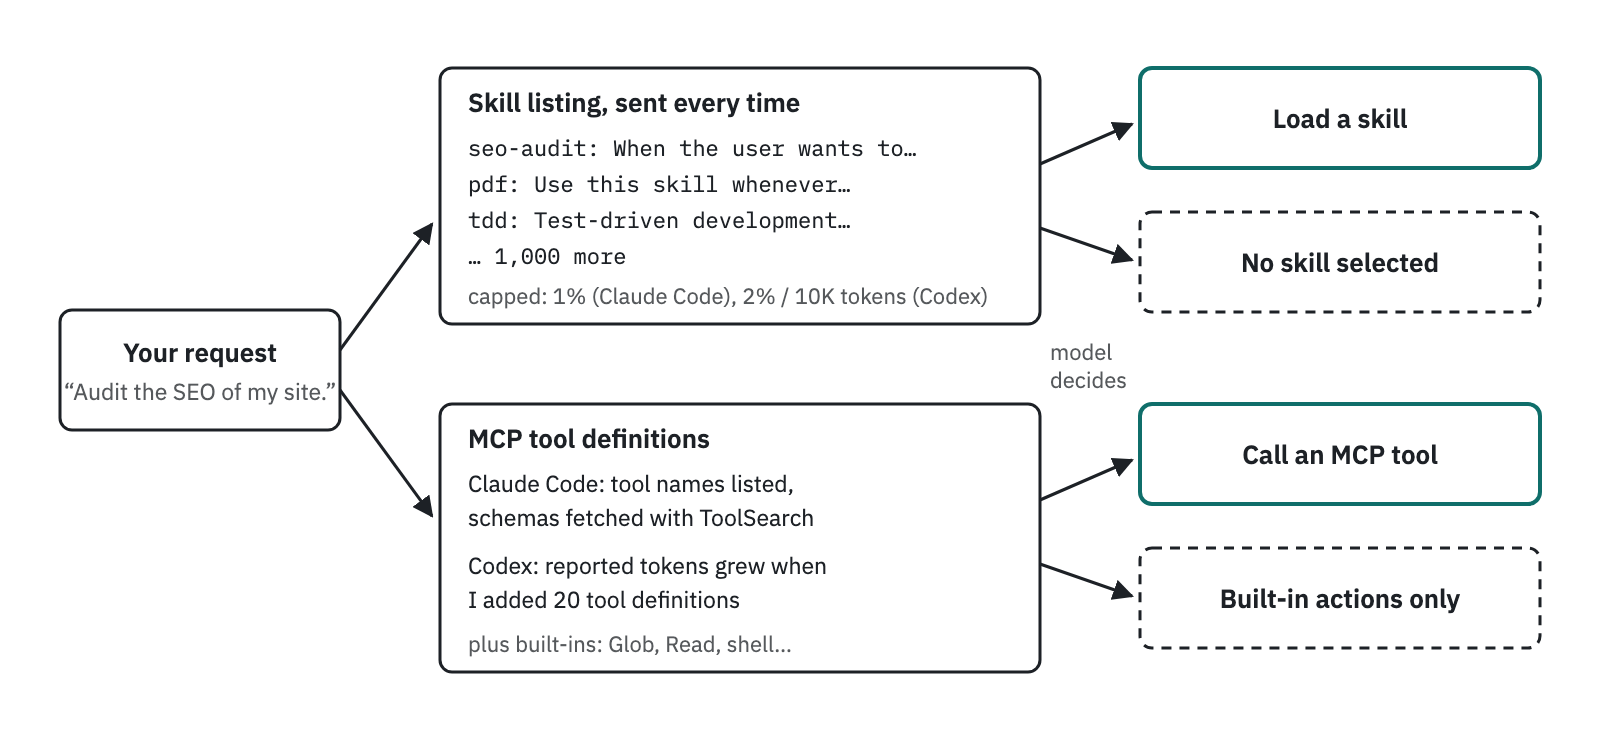
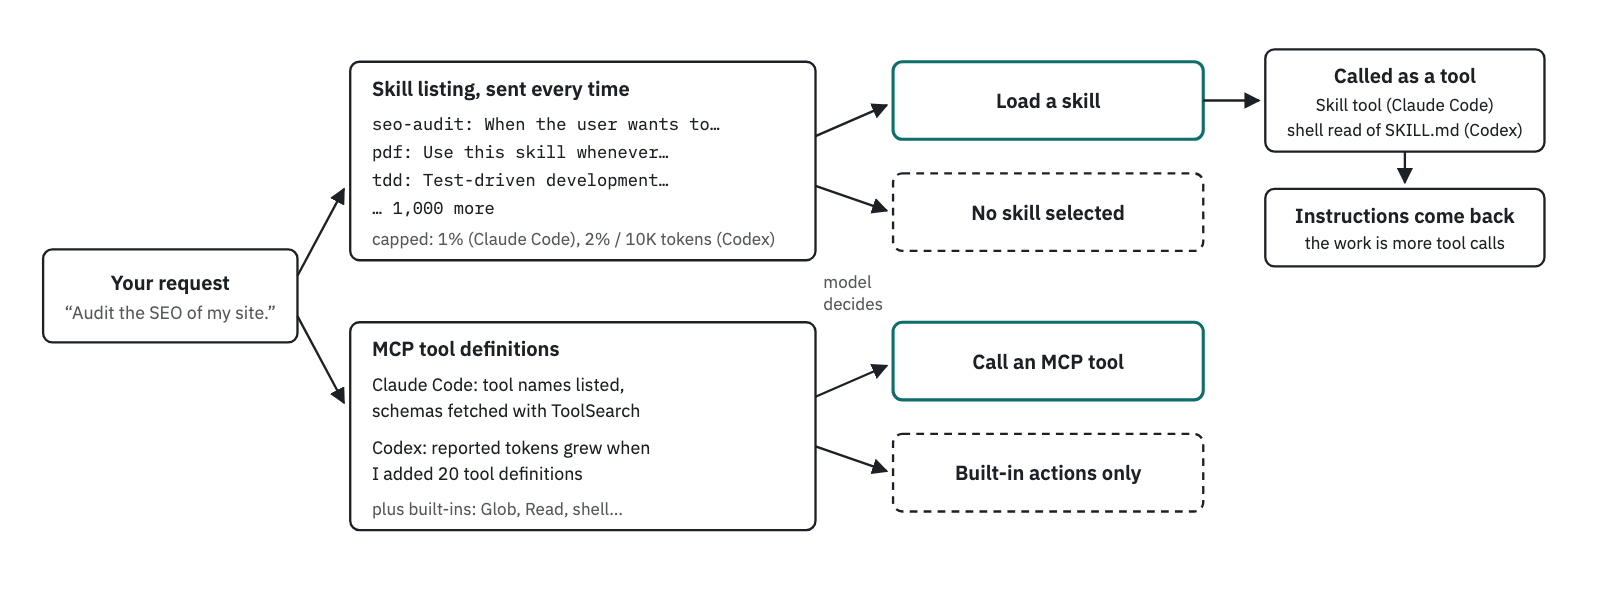
Show that loading a skill is itself a tool call
The pipeline diagram adds the step after "Load a skill": the Skill tool
(Claude Code) or a shell read of SKILL.md (Codex) returns instructions,
and the work happens in further tool calls. Caption and text say the same.

diff --git a/docs/index.html b/docs/index.html
@@ -100,20 +100,22 @@ figure svg:focus-visible{outline:2px solid var(--accent);outline-offset:4px}
 <li><b>Selected.</b> The model decides to load a skill or call a tool. <b>This is the stage I measured.</b></li>
 <li><b>Loaded and used.</b> The full <code>SKILL.md</code> is read, the tool runs, the task gets done. Not measured.</li>
 </ol>
-<figure><svg viewBox="0 0 760 330" role="img" aria-label="Diagram. Every request is sent with the skill listing (all names and descriptions, capped at a share of the context) and with MCP tool definitions. Claude Code sends tool names and fetches schemas on demand with ToolSearch; For Codex, reported tokens grew when 20 tool definitions were added. From that, the model either loads a skill, calls a tool, or uses only built-in actions.">
+<figure><svg viewBox="0 0 980 330" role="img" aria-label="Diagram. Every request is sent with the skill listing (all names and descriptions, capped at a share of the context) and with MCP tool definitions. Claude Code sends tool names and fetches schemas on demand with ToolSearch; for Codex, reported tokens grew when 20 tool definitions were added. The model loads a skill, calls a tool, or uses only built-in actions. Loading a skill is itself a tool call (the Skill tool in Claude Code, a shell read of SKILL.md in Codex) that returns the skill instructions; the work then happens in more tool calls.">
 <defs><marker id="ah" viewBox="0 0 10 10" refX="9" refY="5" markerWidth="7" markerHeight="7" orient="auto"><path d="M0,0 L10,5 L0,10 z" fill="currentColor"/></marker></defs>
 <g fill="none" stroke="currentColor" stroke-width="1.5">
-<rect x="10" y="135" width="140" height="60" rx="6"/>
+<rect x="2" y="135" width="164" height="60" rx="6"/>
 <rect x="200" y="14" width="300" height="128" rx="6"/>
 <rect x="200" y="182" width="300" height="134" rx="6"/>
 <rect x="550" y="14" width="200" height="50" rx="6" stroke="var(--accent)" stroke-width="2"/>
 <rect x="550" y="86" width="200" height="50" rx="6" stroke-dasharray="5 4"/>
 <rect x="550" y="182" width="200" height="50" rx="6" stroke="var(--accent)" stroke-width="2"/>
 <rect x="550" y="254" width="200" height="50" rx="6" stroke-dasharray="5 4"/>
+<rect x="790" y="6" width="180" height="66" rx="6"/>
+<rect x="790" y="96" width="180" height="50" rx="6"/>
 </g>
 <g font-family="IBM Plex Sans, system-ui, sans-serif" font-size="13" fill="currentColor">
-<text x="80" y="161" text-anchor="middle" font-weight="600">Your request</text>
-<text x="80" y="180" text-anchor="middle" font-size="11.5" fill-opacity=".75">“Audit the SEO of my site.”</text>
+<text x="84" y="161" text-anchor="middle" font-weight="600">Your request</text>
+<text x="84" y="180" text-anchor="middle" font-size="11.5" fill-opacity=".75">“Audit the SEO of my site.”</text>
 <text x="214" y="36" font-weight="600">Skill listing, sent every time</text>
 <text x="214" y="58" font-family="IBM Plex Mono, ui-monospace, monospace" font-size="11">seo-audit: When the user wants to…</text>
 <text x="214" y="76" font-family="IBM Plex Mono, ui-monospace, monospace" font-size="11">pdf: Use this skill whenever…</text>
@@ -130,19 +132,26 @@ figure svg:focus-visible{outline:2px solid var(--accent);outline-offset:4px}
 <text x="650" y="116" text-anchor="middle" font-weight="600">No skill selected</text>
 <text x="650" y="212" text-anchor="middle" font-weight="600">Call an MCP tool</text>
 <text x="650" y="284" text-anchor="middle" font-weight="600">Built-in actions only</text>
+<text x="880" y="28" text-anchor="middle" font-weight="600">Called as a tool</text>
+<text x="880" y="46" text-anchor="middle" font-size="11">Skill tool (Claude Code)</text>
+<text x="880" y="62" text-anchor="middle" font-size="11">shell read of SKILL.md (Codex)</text>
+<text x="880" y="118" text-anchor="middle" font-weight="600">Instructions come back</text>
+<text x="880" y="135" text-anchor="middle" font-size="11">the work is more tool calls</text>
 </g>
 <g stroke="currentColor" stroke-width="1.5" fill="none" marker-end="url(#ah)">
-<line x1="150" y1="155" x2="196" y2="92"/>
-<line x1="150" y1="175" x2="196" y2="238"/>
+<line x1="166" y1="152" x2="196" y2="96"/>
+<line x1="166" y1="178" x2="196" y2="234"/>
 <line x1="500" y1="62" x2="546" y2="42"/>
 <line x1="500" y1="94" x2="546" y2="110"/>
 <line x1="500" y1="230" x2="546" y2="210"/>
 <line x1="500" y1="262" x2="546" y2="278"/>
+<line x1="750" y1="39" x2="786" y2="39"/>
+<line x1="880" y1="72" x2="880" y2="92"/>
 </g>
 <g font-family="IBM Plex Sans, system-ui, sans-serif" font-size="11" fill="currentColor" fill-opacity=".75"><text x="505" y="160">model</text><text x="505" y="174">decides</text></g>
-</svg><figcaption>A request arrives together with a capped skill listing and the MCP tools. The model selects a skill, calls a tool, or uses only the harness’s built-in actions (search files, read, run a shell).</figcaption></figure>
+</svg><figcaption>A request arrives together with a capped skill listing and the MCP tools. The model loads a skill, calls a tool, or uses only the harness’s built-in actions (search files, read, run a shell). Loading a skill is itself a tool call: it returns the skill’s instructions, and the work then happens in further tool calls.</figcaption></figure>
 <p>MCP tools differ at stage 2 in Claude Code: the model sees tool names and loads the full definitions on demand with a <code>ToolSearch</code> call. That is a harness feature. In your own agent built on a model API, every tool definition you pass is sent in full, and search is yours to implement (see <a href="#trick-search">[Trick #3]</a>).</p>
-<p>A selection is easy to detect. In Claude Code it is a <code>Skill</code> tool call. In Codex the agent reads the file with a shell command such as <code>cat .agents/skills/pdf/SKILL.md</code>. I count the attempt; I did not check that the file was read successfully.</p>
+<p><b>Loading a skill is itself a tool call.</b> In Claude Code the model calls the <code>Skill</code> tool; in Codex it reads the file with a shell command such as <code>cat .agents/skills/pdf/SKILL.md</code>. That call returns the skill’s instructions, and the actual work happens in the tool calls that follow. So a skill is a tool call with an extra step in front, while an MCP tool does its work in the call itself (in Claude Code, often right after a <code>ToolSearch</code> call that loads its definition). The first call is what I count as “selected”; I did not check that the file was read successfully.</p>
 
 <h2>The experiment</h2>
 <p>I picked 20 well-known skills (<a href="https://github.com/anthropics/skills">Anthropic’s</a> pdf, xlsx, pptx and docx, <a href="https://github.com/mattpocock/skills">Matt Pocock’s</a> tdd and grill-me, and others; the full list is in <a href="#appendix-a">Appendix A</a>) and 20 everyday MCP tools out of 791 real tool definitions from 73 servers (<a href="https://github.com/github/github-mcp-server">GitHub</a>, <a href="https://github.com/ChromeDevTools/chrome-devtools-mcp">Chrome DevTools</a>, <a href="https://github.com/microsoft/playwright-mcp">Playwright</a>, and 70 servers from <a href="https://github.com/icip-cas/LiveMCPBench">LiveMCPBench</a>).</p>

diff --git a/post/skills-mcp-post.html b/post/skills-mcp-post.html
@@ -81,20 +81,22 @@ figure svg:focus-visible{outline:2px solid var(--accent);outline-offset:4px}
 <li><b>Selected.</b> The model decides to load a skill or call a tool. <b>This is the stage I measured.</b></li>
 <li><b>Loaded and used.</b> The full <code>SKILL.md</code> is read, the tool runs, the task gets done. Not measured.</li>
 </ol>
-<figure><svg viewBox="0 0 760 330" role="img" aria-label="Diagram. Every request is sent with the skill listing (all names and descriptions, capped at a share of the context) and with MCP tool definitions. Claude Code sends tool names and fetches schemas on demand with ToolSearch; For Codex, reported tokens grew when 20 tool definitions were added. From that, the model either loads a skill, calls a tool, or uses only built-in actions.">
+<figure><svg viewBox="0 0 980 330" role="img" aria-label="Diagram. Every request is sent with the skill listing (all names and descriptions, capped at a share of the context) and with MCP tool definitions. Claude Code sends tool names and fetches schemas on demand with ToolSearch; for Codex, reported tokens grew when 20 tool definitions were added. The model loads a skill, calls a tool, or uses only built-in actions. Loading a skill is itself a tool call (the Skill tool in Claude Code, a shell read of SKILL.md in Codex) that returns the skill instructions; the work then happens in more tool calls.">
 <defs><marker id="ah" viewBox="0 0 10 10" refX="9" refY="5" markerWidth="7" markerHeight="7" orient="auto"><path d="M0,0 L10,5 L0,10 z" fill="currentColor"/></marker></defs>
 <g fill="none" stroke="currentColor" stroke-width="1.5">
-<rect x="10" y="135" width="140" height="60" rx="6"/>
+<rect x="2" y="135" width="164" height="60" rx="6"/>
 <rect x="200" y="14" width="300" height="128" rx="6"/>
 <rect x="200" y="182" width="300" height="134" rx="6"/>
 <rect x="550" y="14" width="200" height="50" rx="6" stroke="var(--accent)" stroke-width="2"/>
 <rect x="550" y="86" width="200" height="50" rx="6" stroke-dasharray="5 4"/>
 <rect x="550" y="182" width="200" height="50" rx="6" stroke="var(--accent)" stroke-width="2"/>
 <rect x="550" y="254" width="200" height="50" rx="6" stroke-dasharray="5 4"/>
+<rect x="790" y="6" width="180" height="66" rx="6"/>
+<rect x="790" y="96" width="180" height="50" rx="6"/>
 </g>
 <g font-family="IBM Plex Sans, system-ui, sans-serif" font-size="13" fill="currentColor">
-<text x="80" y="161" text-anchor="middle" font-weight="600">Your request</text>
-<text x="80" y="180" text-anchor="middle" font-size="11.5" fill-opacity=".75">“Audit the SEO of my site.”</text>
+<text x="84" y="161" text-anchor="middle" font-weight="600">Your request</text>
+<text x="84" y="180" text-anchor="middle" font-size="11.5" fill-opacity=".75">“Audit the SEO of my site.”</text>
 <text x="214" y="36" font-weight="600">Skill listing, sent every time</text>
 <text x="214" y="58" font-family="IBM Plex Mono, ui-monospace, monospace" font-size="11">seo-audit: When the user wants to…</text>
 <text x="214" y="76" font-family="IBM Plex Mono, ui-monospace, monospace" font-size="11">pdf: Use this skill whenever…</text>
@@ -111,19 +113,26 @@ figure svg:focus-visible{outline:2px solid var(--accent);outline-offset:4px}
 <text x="650" y="116" text-anchor="middle" font-weight="600">No skill selected</text>
 <text x="650" y="212" text-anchor="middle" font-weight="600">Call an MCP tool</text>
 <text x="650" y="284" text-anchor="middle" font-weight="600">Built-in actions only</text>
+<text x="880" y="28" text-anchor="middle" font-weight="600">Called as a tool</text>
+<text x="880" y="46" text-anchor="middle" font-size="11">Skill tool (Claude Code)</text>
+<text x="880" y="62" text-anchor="middle" font-size="11">shell read of SKILL.md (Codex)</text>
+<text x="880" y="118" text-anchor="middle" font-weight="600">Instructions come back</text>
+<text x="880" y="135" text-anchor="middle" font-size="11">the work is more tool calls</text>
 </g>
 <g stroke="currentColor" stroke-width="1.5" fill="none" marker-end="url(#ah)">
-<line x1="150" y1="155" x2="196" y2="92"/>
-<line x1="150" y1="175" x2="196" y2="238"/>
+<line x1="166" y1="152" x2="196" y2="96"/>
+<line x1="166" y1="178" x2="196" y2="234"/>
 <line x1="500" y1="62" x2="546" y2="42"/>
 <line x1="500" y1="94" x2="546" y2="110"/>
 <line x1="500" y1="230" x2="546" y2="210"/>
 <line x1="500" y1="262" x2="546" y2="278"/>
+<line x1="750" y1="39" x2="786" y2="39"/>
+<line x1="880" y1="72" x2="880" y2="92"/>
 </g>
 <g font-family="IBM Plex Sans, system-ui, sans-serif" font-size="11" fill="currentColor" fill-opacity=".75"><text x="505" y="160">model</text><text x="505" y="174">decides</text></g>
-</svg><figcaption>A request arrives together with a capped skill listing and the MCP tools. The model selects a skill, calls a tool, or uses only the harness’s built-in actions (search files, read, run a shell).</figcaption></figure>
+</svg><figcaption>A request arrives together with a capped skill listing and the MCP tools. The model loads a skill, calls a tool, or uses only the harness’s built-in actions (search files, read, run a shell). Loading a skill is itself a tool call: it returns the skill’s instructions, and the work then happens in further tool calls.</figcaption></figure>
 <p>MCP tools differ at stage 2 in Claude Code: the model sees tool names and loads the full definitions on demand with a <code>ToolSearch</code> call. That is a harness feature. In your own agent built on a model API, every tool definition you pass is sent in full, and search is yours to implement (see <a href="#trick-search">[Trick #3]</a>).</p>
-<p>A selection is easy to detect. In Claude Code it is a <code>Skill</code> tool call. In Codex the agent reads the file with a shell command such as <code>cat .agents/skills/pdf/SKILL.md</code>. I count the attempt; I did not check that the file was read successfully.</p>
+<p><b>Loading a skill is itself a tool call.</b> In Claude Code the model calls the <code>Skill</code> tool; in Codex it reads the file with a shell command such as <code>cat .agents/skills/pdf/SKILL.md</code>. That call returns the skill’s instructions, and the actual work happens in the tool calls that follow. So a skill is a tool call with an extra step in front, while an MCP tool does its work in the call itself (in Claude Code, often right after a <code>ToolSearch</code> call that loads its definition). The first call is what I count as “selected”; I did not check that the file was read successfully.</p>
 
 <h2>The experiment</h2>
 <p>I picked 20 well-known skills (<a href="https://github.com/anthropics/skills">Anthropic’s</a> pdf, xlsx, pptx and docx, <a href="https://github.com/mattpocock/skills">Matt Pocock’s</a> tdd and grill-me, and others; the full list is in <a href="#appendix-a">Appendix A</a>) and 20 everyday MCP tools out of 791 real tool definitions from 73 servers (<a href="https://github.com/github/github-mcp-server">GitHub</a>, <a href="https://github.com/ChromeDevTools/chrome-devtools-mcp">Chrome DevTools</a>, <a href="https://github.com/microsoft/playwright-mcp">Playwright</a>, and 70 servers from <a href="https://github.com/icip-cas/LiveMCPBench">LiveMCPBench</a>).</p>

diff --git a/post/figs2.py b/post/figs2.py
@@ -47,20 +47,22 @@ def line_chart(series, xlabels, aria, w=720, h=330, legend_note="", title=""):
     return f'<svg viewBox="0 0 {w} {h+dy}" role="img" aria-label="{aria}"><g {FONT}>{ttl}<g transform="translate(0,{dy})">{"".join(g)}{"".join(lg)}{"".join(lines)}</g></g></svg>'
 
 # --- Fig: how selection works (skills vs MCP tools)
-out["fig_how"] = f'''<svg viewBox="0 0 760 330" role="img" aria-label="Diagram. Every request is sent with the skill listing (all names and descriptions, capped at a share of the context) and with MCP tool definitions. Claude Code sends tool names and fetches schemas on demand with ToolSearch; For Codex, reported tokens grew when 20 tool definitions were added. From that, the model either loads a skill, calls a tool, or uses only built-in actions.">
+out["fig_how"] = f'''<svg viewBox="0 0 980 330" role="img" aria-label="Diagram. Every request is sent with the skill listing (all names and descriptions, capped at a share of the context) and with MCP tool definitions. Claude Code sends tool names and fetches schemas on demand with ToolSearch; for Codex, reported tokens grew when 20 tool definitions were added. The model loads a skill, calls a tool, or uses only built-in actions. Loading a skill is itself a tool call (the Skill tool in Claude Code, a shell read of SKILL.md in Codex) that returns the skill instructions; the work then happens in more tool calls.">
 <defs><marker id="ah" viewBox="0 0 10 10" refX="9" refY="5" markerWidth="7" markerHeight="7" orient="auto"><path d="M0,0 L10,5 L0,10 z" fill="currentColor"/></marker></defs>
 <g fill="none" stroke="currentColor" stroke-width="1.5">
-<rect x="10" y="135" width="140" height="60" rx="6"/>
+<rect x="2" y="135" width="164" height="60" rx="6"/>
 <rect x="200" y="14" width="300" height="128" rx="6"/>
 <rect x="200" y="182" width="300" height="134" rx="6"/>
 <rect x="550" y="14" width="200" height="50" rx="6" stroke="var(--accent)" stroke-width="2"/>
 <rect x="550" y="86" width="200" height="50" rx="6" stroke-dasharray="5 4"/>
 <rect x="550" y="182" width="200" height="50" rx="6" stroke="var(--accent)" stroke-width="2"/>
 <rect x="550" y="254" width="200" height="50" rx="6" stroke-dasharray="5 4"/>
+<rect x="790" y="6" width="180" height="66" rx="6"/>
+<rect x="790" y="96" width="180" height="50" rx="6"/>
 </g>
 <g {FONT} font-size="13" fill="currentColor">
-<text x="80" y="161" text-anchor="middle" font-weight="600">Your request</text>
-<text x="80" y="180" text-anchor="middle" font-size="11.5" fill-opacity=".75">“Audit the SEO of my site.”</text>
+<text x="84" y="161" text-anchor="middle" font-weight="600">Your request</text>
+<text x="84" y="180" text-anchor="middle" font-size="11.5" fill-opacity=".75">“Audit the SEO of my site.”</text>
 <text x="214" y="36" font-weight="600">Skill listing, sent every time</text>
 <text x="214" y="58" {MONO} font-size="11">seo-audit: When the user wants to…</text>
 <text x="214" y="76" {MONO} font-size="11">pdf: Use this skill whenever…</text>
@@ -77,14 +79,21 @@ out["fig_how"] = f'''<svg viewBox="0 0 760 330" role="img" aria-label="Diagram. 
 <text x="650" y="116" text-anchor="middle" font-weight="600">No skill selected</text>
 <text x="650" y="212" text-anchor="middle" font-weight="600">Call an MCP tool</text>
 <text x="650" y="284" text-anchor="middle" font-weight="600">Built-in actions only</text>
+<text x="880" y="28" text-anchor="middle" font-weight="600">Called as a tool</text>
+<text x="880" y="46" text-anchor="middle" font-size="11">Skill tool (Claude Code)</text>
+<text x="880" y="62" text-anchor="middle" font-size="11">shell read of SKILL.md (Codex)</text>
+<text x="880" y="118" text-anchor="middle" font-weight="600">Instructions come back</text>
+<text x="880" y="135" text-anchor="middle" font-size="11">the work is more tool calls</text>
 </g>
 <g stroke="currentColor" stroke-width="1.5" fill="none" marker-end="url(#ah)">
-<line x1="150" y1="155" x2="196" y2="92"/>
-<line x1="150" y1="175" x2="196" y2="238"/>
+<line x1="166" y1="152" x2="196" y2="96"/>
+<line x1="166" y1="178" x2="196" y2="234"/>
 <line x1="500" y1="62" x2="546" y2="42"/>
 <line x1="500" y1="94" x2="546" y2="110"/>
 <line x1="500" y1="230" x2="546" y2="210"/>
 <line x1="500" y1="262" x2="546" y2="278"/>
+<line x1="750" y1="39" x2="786" y2="39"/>
+<line x1="880" y1="72" x2="880" y2="92"/>
 </g>
 <g {FONT} font-size="11" fill="currentColor" fill-opacity=".75"><text x="505" y="160">model</text><text x="505" y="174">decides</text></g>
 </svg>'''

diff --git a/post/build_post2.py b/post/build_post2.py
@@ -102,9 +102,9 @@ body = f"""
 <li><b>Selected.</b> The model decides to load a skill or call a tool. <b>This is the stage I measured.</b></li>
 <li><b>Loaded and used.</b> The full <code>SKILL.md</code> is read, the tool runs, the task gets done. Not measured.</li>
 </ol>
-{fig_("fig_how", "A request arrives together with a capped skill listing and the MCP tools. The model selects a skill, calls a tool, or uses only the harness’s built-in actions (search files, read, run a shell).")}
+{fig_("fig_how", "A request arrives together with a capped skill listing and the MCP tools. The model loads a skill, calls a tool, or uses only the harness’s built-in actions (search files, read, run a shell). Loading a skill is itself a tool call: it returns the skill’s instructions, and the work then happens in further tool calls.")}
 <p>MCP tools differ at stage 2 in Claude Code: the model sees tool names and loads the full definitions on demand with a <code>ToolSearch</code> call. That is a harness feature. In your own agent built on a model API, every tool definition you pass is sent in full, and search is yours to implement (see <a href="#trick-search">[Trick #3]</a>).</p>
-<p>A selection is easy to detect. In Claude Code it is a <code>Skill</code> tool call. In Codex the agent reads the file with a shell command such as <code>cat .agents/skills/pdf/SKILL.md</code>. I count the attempt; I did not check that the file was read successfully.</p>
+<p><b>Loading a skill is itself a tool call.</b> In Claude Code the model calls the <code>Skill</code> tool; in Codex it reads the file with a shell command such as <code>cat .agents/skills/pdf/SKILL.md</code>. That call returns the skill’s instructions, and the actual work happens in the tool calls that follow. So a skill is a tool call with an extra step in front, while an MCP tool does its work in the call itself (in Claude Code, often right after a <code>ToolSearch</code> call that loads its definition). The first call is what I count as “selected”; I did not check that the file was read successfully.</p>
 
 <h2>The experiment</h2>
 <p>I picked 20 well-known skills ({A(L["anth_skills"], "Anthropic’s")} pdf, xlsx, pptx and docx, {A(L["mattpocock"], "Matt Pocock’s")} tdd and grill-me, and others; the full list is in <a href="#appendix-a">Appendix A</a>) and 20 everyday MCP tools out of 791 real tool definitions from 73 servers ({A(L["ghmcp"], "GitHub")}, {A(L["cdt"], "Chrome DevTools")}, {A(L["pwmcp"], "Playwright")}, and 70 servers from {A(L["livemcp_gh"], "LiveMCPBench")}).</p>
